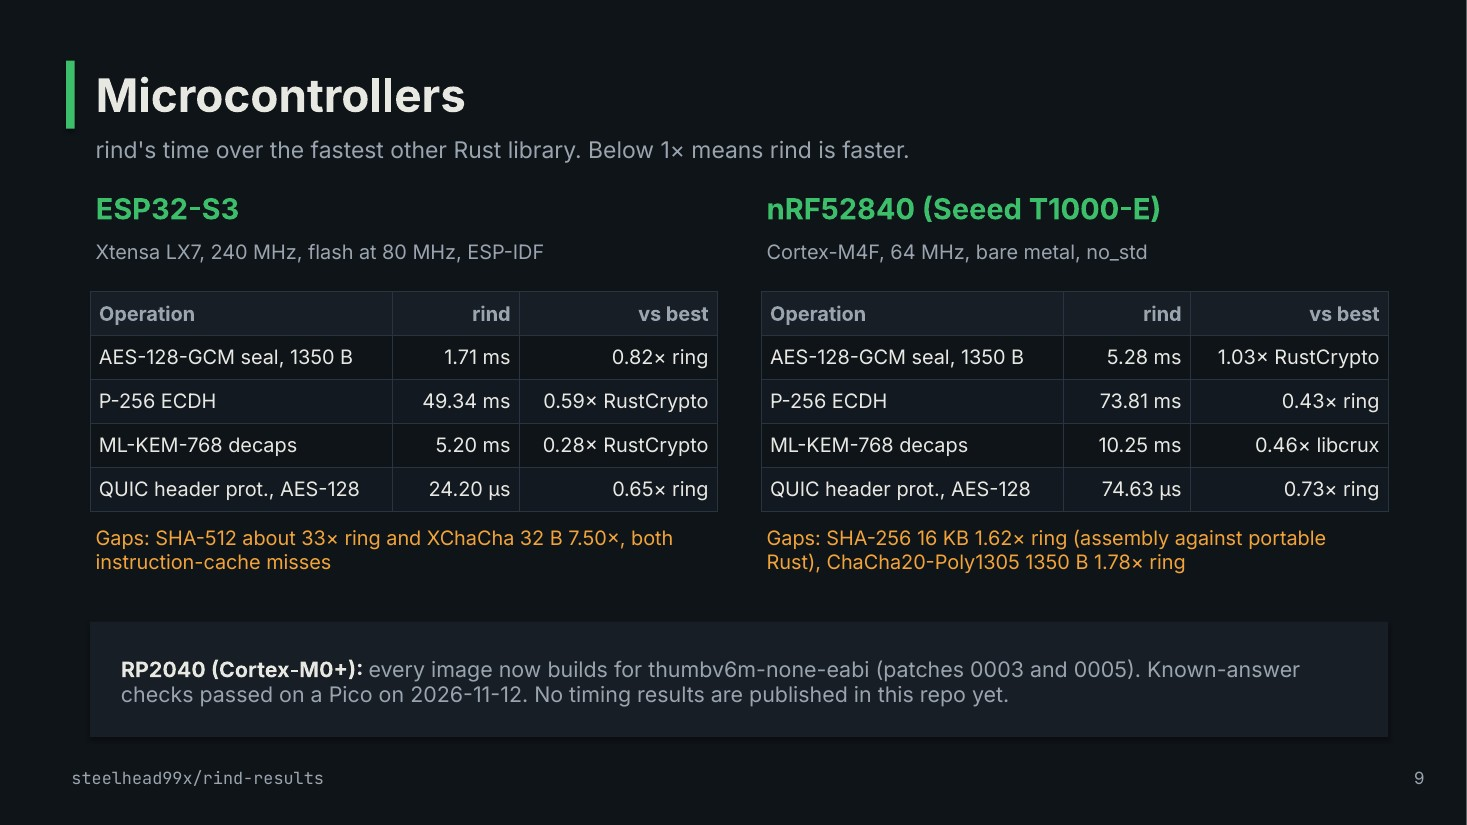
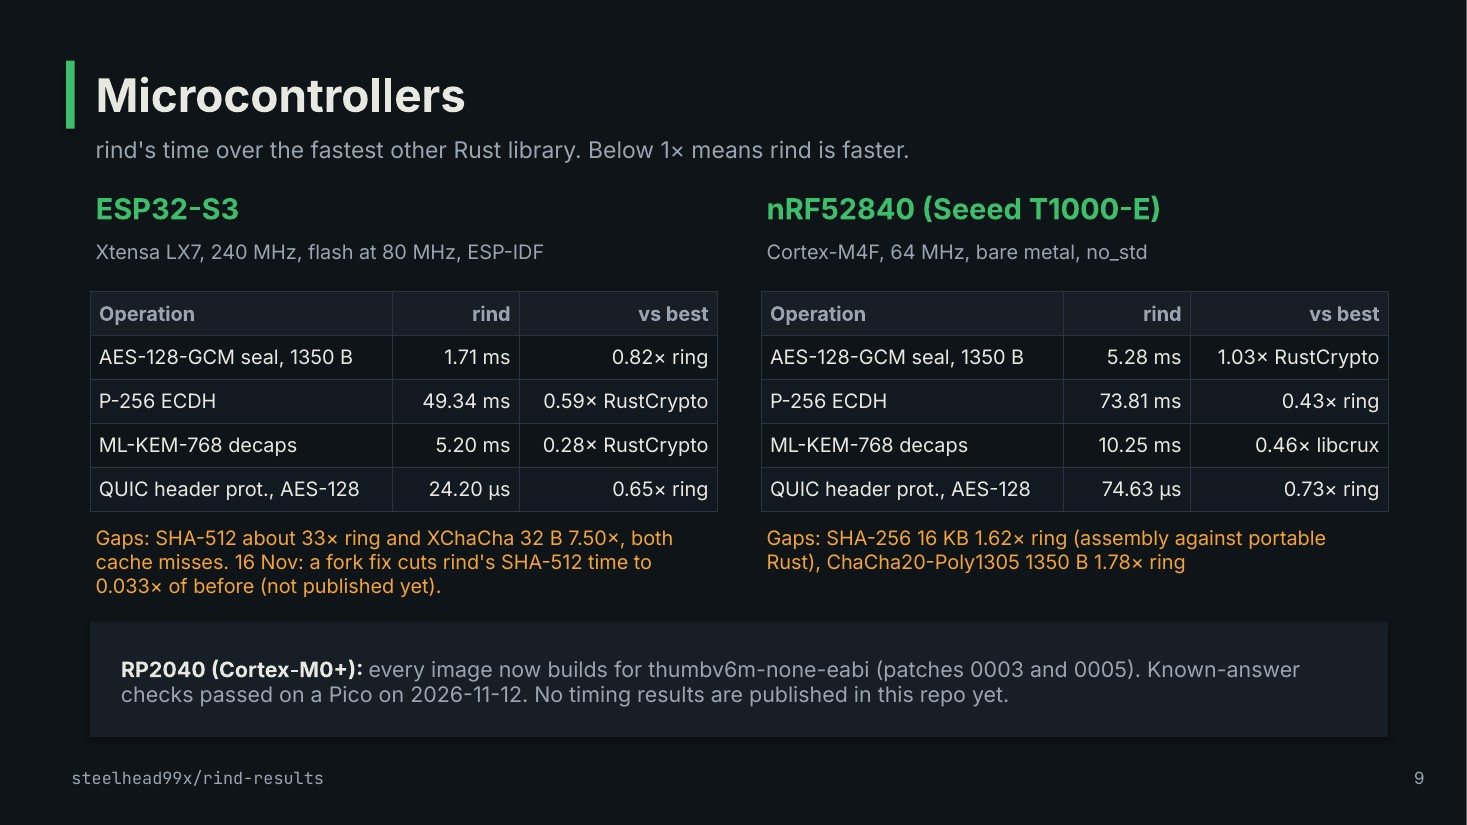
docs(presentations): add SHA-512 on Intel and the newer sets to rind-benchmarks
Slide 13 covers kixel-ai/rind#821 and its measured cost. Slide 14 lists the sets published on main after the four b6651423 hosts. Slide 9 notes the ESP32-S3 SHA-512 fork fix. Renders refreshed.

Changed region(s): [[0.0613, 0.6667, 0.4601, 0.7273]]

diff --git a/presentations/rind-benchmarks/build.py b/presentations/rind-benchmarks/build.py
@@ -234,7 +234,7 @@ s=base("Microcontrollers",kicker="rind's time over the fastest other Rust librar
 for i,(name,sub,rows,gap) in enumerate([
  ("ESP32-S3","Xtensa LX7, 240 MHz, flash at 80 MHz, ESP-IDF",
   [["AES-128-GCM seal, 1350 B","1.71 ms","0.82× ring"],["P-256 ECDH","49.34 ms","0.59× RustCrypto"],["ML-KEM-768 decaps","5.20 ms","0.28× RustCrypto"],["QUIC header prot., AES-128","24.20 µs","0.65× ring"]],
-  "Gaps: SHA-512 about 33× ring and XChaCha 32 B 7.50×, both instruction-cache misses"),
+  "Gaps: SHA-512 about 33× ring and XChaCha 32 B 7.50×, both cache misses. 16 Nov: a fork fix cuts rind's SHA-512 time to 0.033× of before (not published yet)."),
  ("nRF52840 (Seeed T1000-E)","Cortex-M4F, 64 MHz, bare metal, no_std",
   [["AES-128-GCM seal, 1350 B","5.28 ms","1.03× RustCrypto"],["P-256 ECDH","73.81 ms","0.43× ring"],["ML-KEM-768 decaps","10.25 ms","0.46× libcrux"],["QUIC header prot., AES-128","74.63 µs","0.73× ring"]],
   "Gaps: SHA-256 16 KB 1.62× ring (assembly against portable Rust), ChaCha20-Poly1305 1350 B 1.78× ring")]):
@@ -245,7 +245,7 @@ for i,(name,sub,rows,gap) in enumerate([
     tb(s,x,4.75,5.7,0.8,gap,size=13,color=AMBER)
 rect(s,0.82,5.65,11.8,1.05,fill=PANEL)
 tb(s,1.05,5.72,11.4,0.95,[[("RP2040 (Cortex-M0+): ",{'bold':True,'color':TXT}),("every image now builds for thumbv6m-none-eabi (patches 0003 and 0005). Known-answer checks passed on a Pico on 2026-11-12. No timing results are published in this repo yet.",{})]],size=14,color=MUTED,anchor=MSO_ANCHOR.MIDDLE)
-notes(s,"Sources: results/RESULTS.md (ESP32-S3 headline table and Known gaps); results/nrf52840/RESULTS.md (headline and Known gaps); hosts/rp2040/NOTES.md and README intro (RP2040 status). ESP32-S3 SHA-512 is 32.56x to 32.96x ring; the xchacha 32 B gap is 1.10x RustCrypto with a 32 KB instruction cache.")
+notes(s,"Update 2026-11-17: the SHA-512 follow-up is steelhead99x/rind#69 (merged on the fork 2026-11-16 19:01 PST), board-run comment 6936378505: #69 head 504049d4 against upstream main 19f94a07, 3 runs per image, SHA-512 and SHA-512/256 0.0329x to 0.0333x of the old rind time at every size. That run is in a PR comment, not on rind-results main. Sources: results/RESULTS.md (ESP32-S3 headline table and Known gaps); results/nrf52840/RESULTS.md (headline and Known gaps); hosts/rp2040/NOTES.md and README intro (RP2040 status). ESP32-S3 SHA-512 is 32.56x to 32.96x ring; the xchacha 32 B gap is 1.10x RustCrypto with a 32 KB instruction cache.")
 
 # 10 Corrections
 s=base("Corrections along the way",num=10)
@@ -296,5 +296,35 @@ tb(s,7.3,2.15,5.5,4.6,[
  "Publish RP2040 timings.",
  "Add m1pro to bench-report's HOSTS so gaps.toml can list it."],size=16,color=MUTED,spacing=12)
 notes(s,"Sources: README.md 'Gaps on these hosts'; hosts/m1pro/NOTES.md; results/RESULTS.md and results/nrf52840/RESULTS.md Known gaps; README intro (32-bit-limb Poly1305); hosts/rp2040/NOTES.md.")
+
+# 13 Since this deck: Intel's timing list and SHA-512 (added 2026-11-17)
+s=base("Since this deck: SHA-512 and Intel's timing list",kicker="Intel's version of the DIT idea, and a change that trades speed for it",num=13)
+tb(s,0.82,1.75,6.4,4.9,[
+ "Intel publishes a list of instructions whose timing does not depend on the data they process. It plays the same role as Arm's DIT list.",
+ [("The gap: ",{'bold':True,'color':TXT}),("the SHA-512 instructions on Arrow Lake and later CPUs (VSHA512RNDS2, VSHA512MSG1, VSHA512MSG2) are not on that list. rind used them for SHA-384 and SHA-512, and so for HMAC keys, HKDF, and Ed25519 signing.",{})],
+ [("The change: ",{'bold':True,'color':TXT}),("kixel-ai/rind#821 sends those CPUs to the AVX2 routine that already has a proof, and admin/ct-vartime now refuses vsha512 instructions on x86.",{})],
+ [("Status: ",{'bold':True,'color':TXT}),("open upstream, ready for review.",{})]],size=16,color=MUTED,spacing=14)
+for i,(big,lab,col) in enumerate([("2.0–2.2×","SHA-512 time at 32 and 64 B, against the old path",AMBER),("4.4–4.7×","SHA-512 time from 1200 B up, against the old path",AMBER),("0.81–0.86×","of aws-lc-rs's time, still, at every size",GREEN)]):
+    y=1.7+i*1.62
+    rect(s,7.7,y,5.0,1.42,fill=PANEL)
+    tb(s,7.95,y+0.12,4.6,0.7,big,size=34,bold=True,color=col)
+    tb(s,7.95,y+0.85,4.6,0.5,lab,size=14,color=MUTED)
+tb(s,7.7,6.55,5.0,0.35,"Core Ultra 9 275HX, five alternating rounds, one P-core",size=11,color=MUTED)
+notes(s,"Sources: kixel-ai/rind#821 (head 1b277b04, opened by steelhead99x 2026-11-16 20:17 PST); its commits 628fdb69 (AVX2 routine where the CPU has SHA512), 4342478f (ct-vartime refuses VSHA512), and a674bc6e (the Arrow Lake measurement: five alternating rounds of upstream main and the branch on a Core Ultra 9 275HX pinned to one P-core; SHA-512 takes 2.0 to 2.2x its former time at 32 and 64 B and 4.4 to 4.7x from 1200 B, and stays 0.81 to 0.86x aws-lc-rs's at every size); quest/m2/confidence/intel-vsha512.md on kixel-ai/rind main (Intel's list updated 2026-02-23). Checked 2026-11-17.")
+
+# 14 Newer sets on main (added 2026-11-17)
+s=base("Newer sets on main since these four hosts",kicker="Each one is its own publish, at its own rind commit. Counts are from each set's RESULTS.md.",num=14)
+rows=[["Set on main","Hardware","rind commit","Runs","rind fastest"],
+ ["jetson-orin-nano","NVIDIA Jetson Orin Nano, aarch64","98568332","3","65 of 68"],
+ ["intel-core-ultra-9-275hx","Intel Core Ultra 9 275HX","d6ca9a75","3","55 of 68"],
+ ["pi5-nofan-1p5ghz","Raspberry Pi 5, no fan, held at 1.5 GHz","a6577cb4","5","45 of 68"],
+ ["pi-host-a-bench","Raspberry Pi 2, Cortex-A7 at 900 MHz","a6577cb4","5","38 of 68"],
+ ["esp32s3 (d6ca9a75)","ESP32-S3 board, 12 images, comparable set","d6ca9a75","3 each","see RESULTS.md"],
+ ["uno-r3","Arduino Uno R3, generic primitives only","c08c91ea","-","not the full crate"]]
+hl={(1,4):GREEN}
+table(s,0.82,1.75,11.7,rows,[2.9,4.0,1.6,0.9,2.3],rowh=0.5,size=14,hl=hl,right_from=3)
+tb(s,0.82,5.45,11.7,1.2,["\"rind fastest\" counts the operations rind shares with at least one other library. The commits and clocks differ, so these rows are not a ranking of hosts.",
+ "The Pi 5 set runs at 1.5 GHz on purpose (no fan), so compare its ratios, not its times."],size=14,color=MUTED,spacing=8)
+notes(s,"Sources, all on rind-results main 88cbf85 (checked 2026-11-17): results/jetson-orin-nano/RESULTS.md (65 of 68, rind 98568332, 3 runs); results/intel-core-ultra-9-275hx/d6ca9a75.../RESULTS.md (55 of 68, 3 runs, PR #29); results/pi5-nofan-1p5ghz/a6577cb4.../RESULTS.md (45 of 68, five rounds at 1.5 GHz, PR #28); results/pi-host-a-bench/a6577cb4.../RESULTS.md (38 of 68, five rounds, PR #24); results/esp32s3/d6ca9a75.../RESULTS.md (36 of 36 runs: 12 images, 3 runs each; PR #17); results/uno-r3/RESULTS.md (generic primitives from c08c91ea, not the full rind crate, PR #25).")
 
 prs.save(str(ROOT / "rind-results-deck.pptx"))

diff --git a/presentations/rind-benchmarks/README.md b/presentations/rind-benchmarks/README.md
@@ -1,12 +1,12 @@
 <!-- SPDX-License-Identifier: Apache-2.0 OR ISC OR MIT-0 -->
 # rind benchmark results
 
-A 12-slide PowerPoint of the published host and board results in this
+A 14-slide PowerPoint of the published host and board results in this
 repo, including what the red and orange cells on the Apple hosts mean
 (DIT) and how `Dit::hold()` changes the comparison. Open
 `rind-results-deck.pptx` in PowerPoint, Keynote, or LibreOffice.
 JPEG renders of each slide are in `renders/`; `renders/contact.jpg`
-is a contact sheet of all 12.
+is a contact sheet of all 14.
 
 ## Slides
 
@@ -22,6 +22,8 @@ is a contact sheet of all 12.
 10. Corrections along the way
 11. Build cost
 12. Open gaps and next steps
+13. Since this deck: SHA-512 and Intel's timing list (added 2026-11-17)
+14. Newer sets on main since these four hosts (added 2026-11-17)
 
 ## Sources
 
@@ -29,6 +31,19 @@ Every number comes from files on `steelhead99x/rind-results` main. Each
 slide's speaker notes name its source files. The DIT per-call cost is
 given as 30 to 55 ns on the M4 and 45 to 60 ns on the M1 and M4, each
 labelled with its source, because those figures differ across files.
+
+## 17 November update
+
+- Slide 9's ESP32-S3 gap line adds that a fork fix (steelhead99x/rind#69, merged 16 Nov) cuts rind's SHA-512
+  time to 0.033× of before, from the board run in #69 comment 6936378505. It is marked as not published yet.
+- Slide 13 is new: kixel-ai/rind#821 stops using SHA-512 instructions that Intel's data-independent-timing list
+  leaves out. Its cost on a Core Ultra 9 275HX (commit a674bc6e): 2.0 to 2.2× the old SHA-512 time at 32 and 64 B,
+  4.4 to 4.7× from 1200 B, still 0.81 to 0.86× aws-lc-rs's time. #821 is open.
+- Slide 14 is new: the sets published on main after the four b6651423 hosts (Jetson Orin Nano, Core Ultra 9
+  275HX, Pi 5 at 1.5 GHz, Pi 2, the ESP32-S3 d6ca9a75 set, and the Uno R3), each with the "rind fastest on N of 68"
+  count from its own RESULTS.md.
+- No published number on slides 1 to 12 changed. Those slides describe the four b6651423 hosts, and those files
+  did not change.
 
 ## Rebuilding it
 
